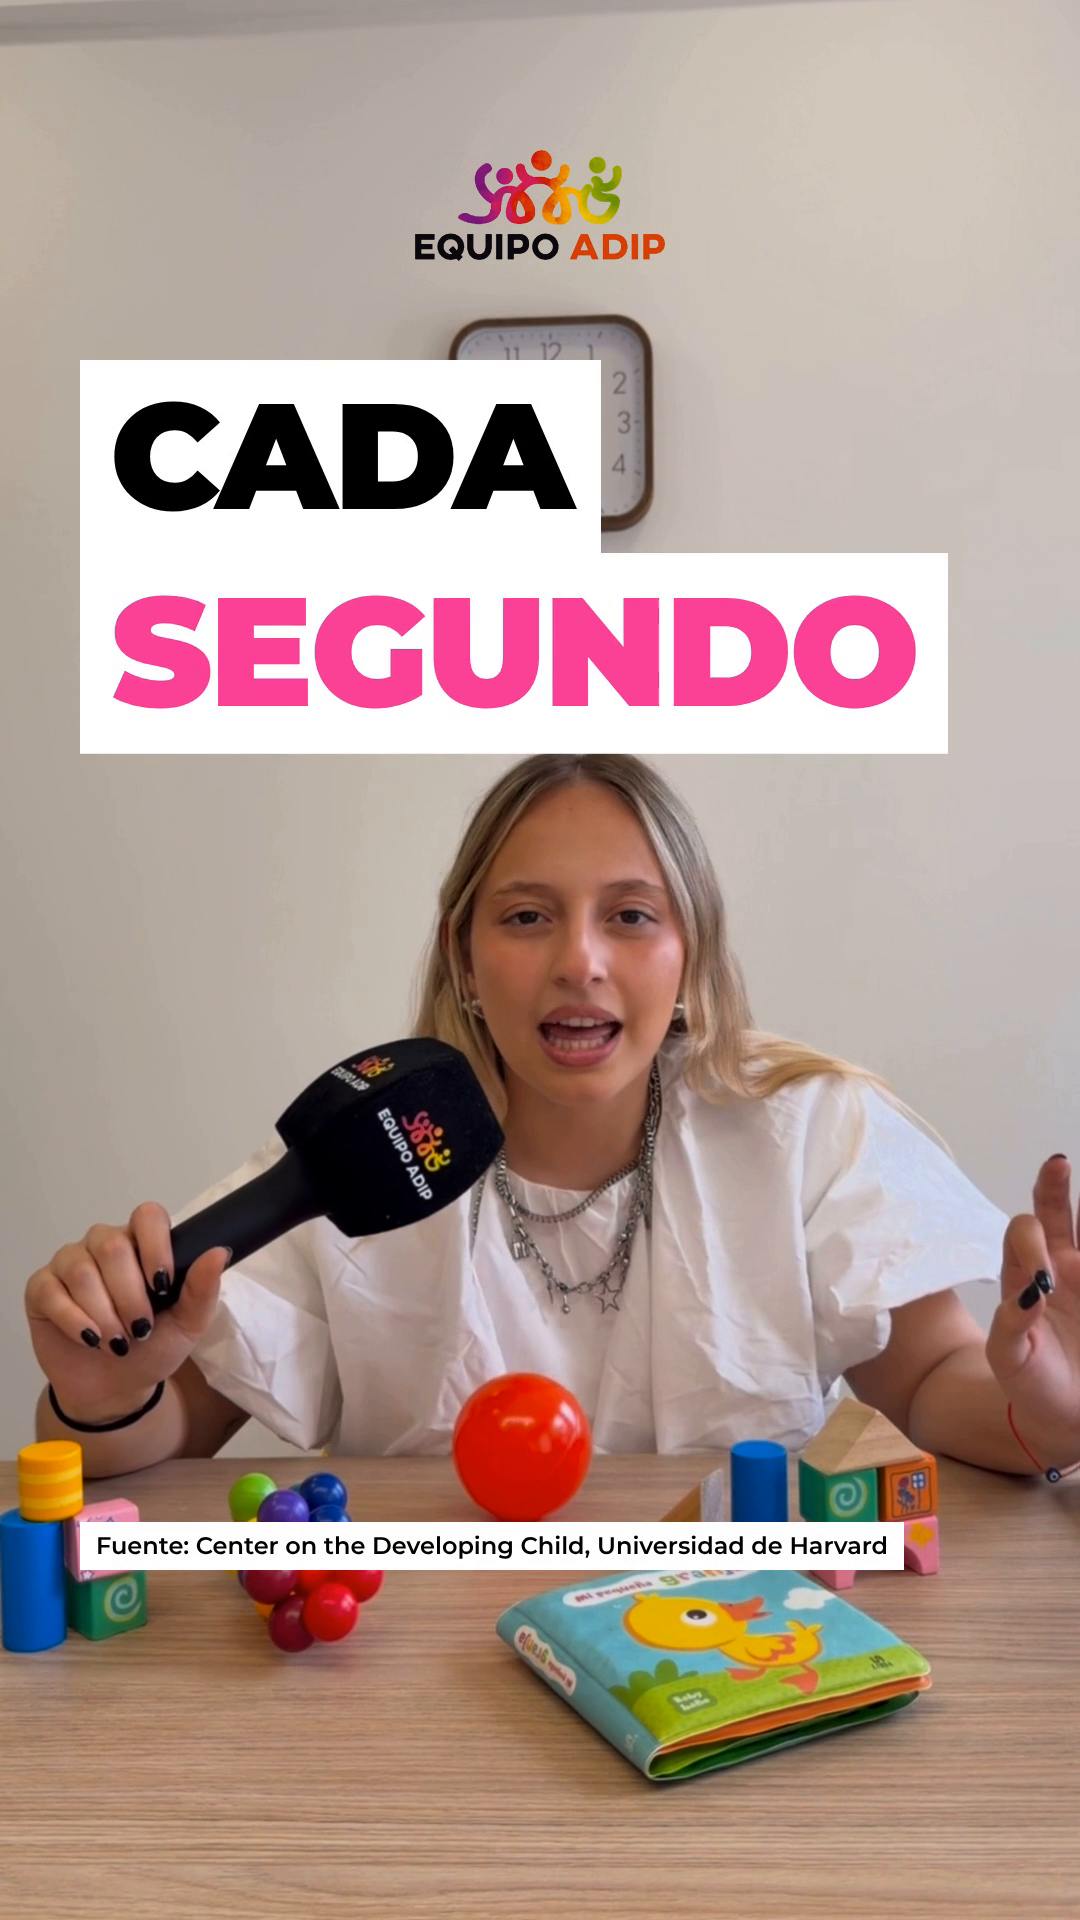
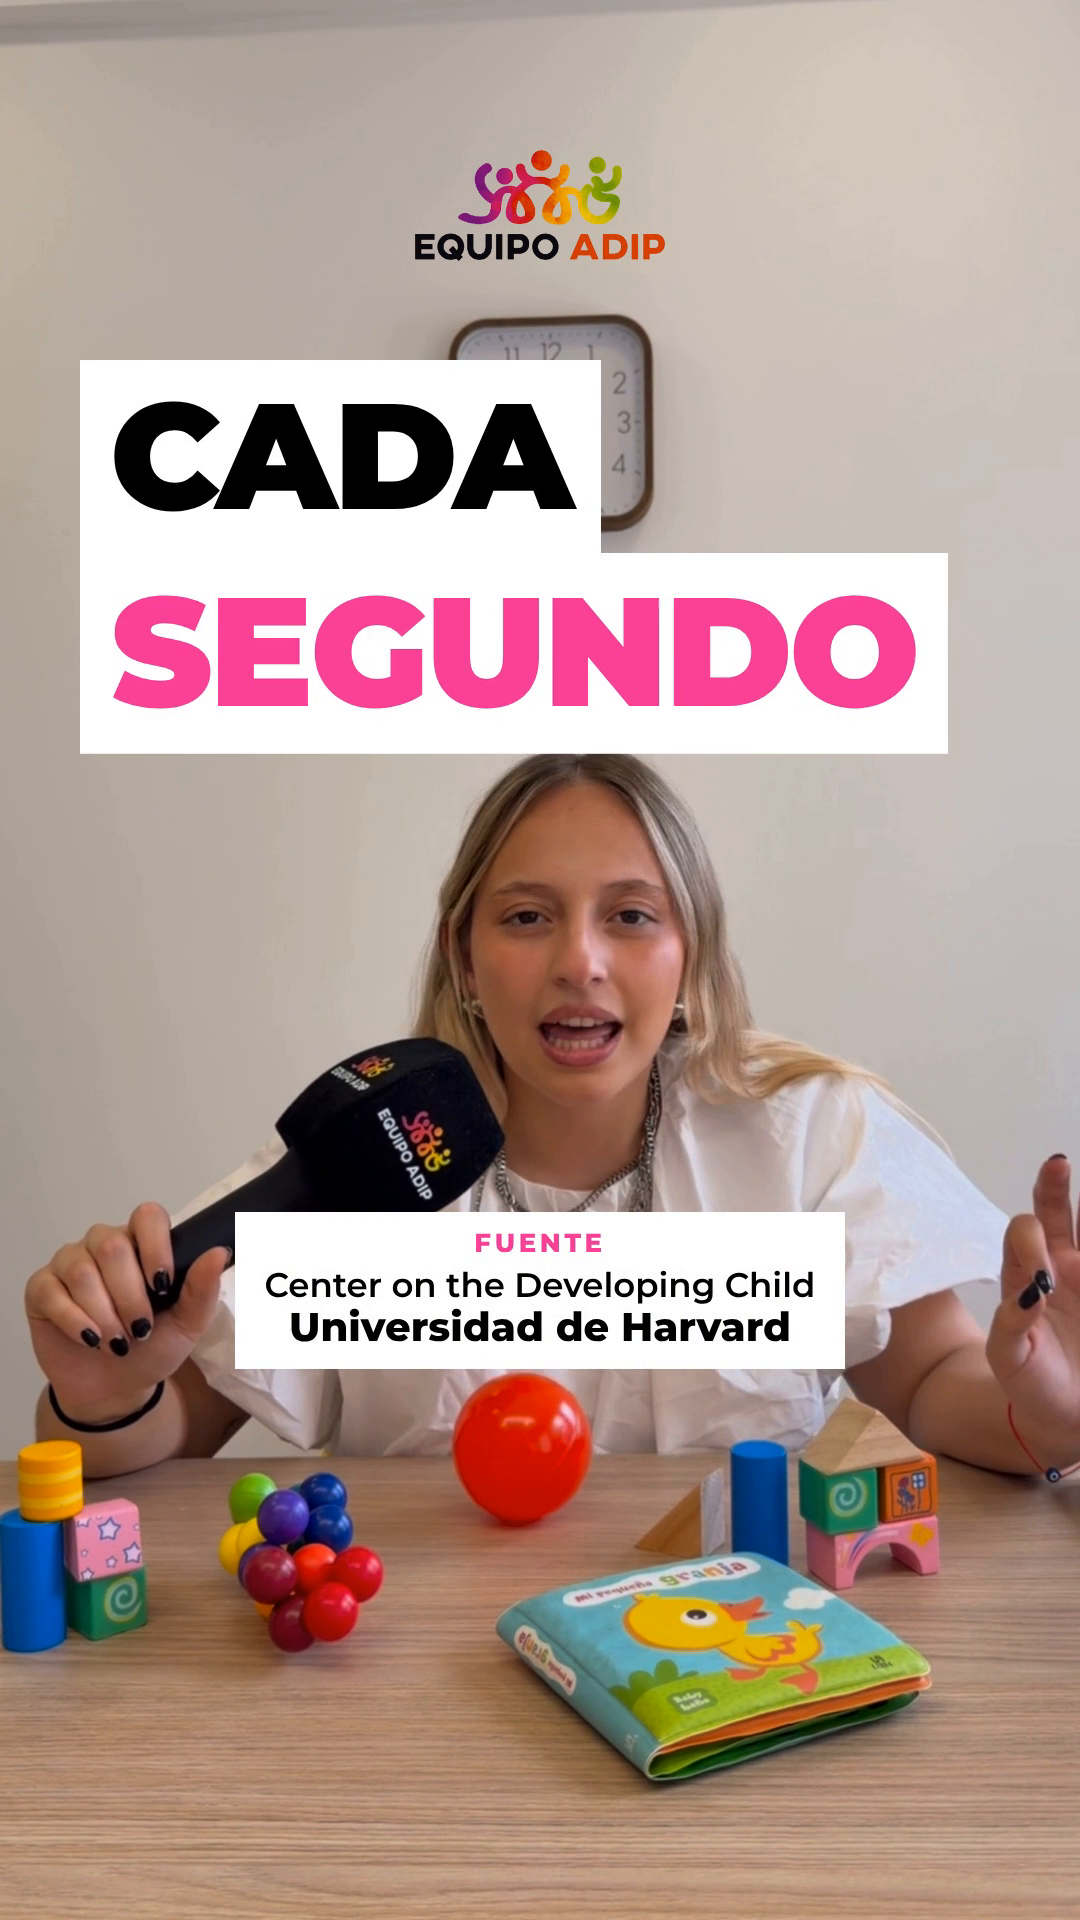
Reel Estimulación: crédito de la fuente más grande y visible
Claude-Session: https://claude.ai/code/session_01M2LxgeZBKNGVK1wpzDWiMF

Changed region(s): [[0.2139, 0.625, 0.7944, 0.7188], [0.0611, 0.7812, 0.8556, 0.8438]]

diff --git a/adip-reel/src/estim/Estim.tsx b/adip-reel/src/estim/Estim.tsx
@@ -273,8 +273,8 @@ const CounterPlate: React.FC<{t: number}> = ({t}) => {
 /** Block 2 · "cada segundo" + small source credit */
 const Second: React.FC<{t: number}> = ({t}) => {
   const show = t >= T_CADA - 0.03 && t < T_CADA_OUT;
-  const credit = t >= 6.12 && t < 9.25;
-  const ck = Math.min(prog(t, 6.12, 0.3, easeOut), 1 - prog(t, 9.0, 0.25, easeIn));
+  const credit = t >= 6.12 && t < 10.7;
+  const ck = Math.min(prog(t, 6.12, 0.15, easeOut), 1 - prog(t, 10.45, 0.25, easeIn));
   return (
     <>
       {show && (
@@ -290,8 +290,12 @@ const Second: React.FC<{t: number}> = ({t}) => {
         </div>
       )}
       {credit && (
-        <div style={{position: 'absolute', left: 80, top: 1522, background: P.white, color: P.ink, fontFamily: FONT, fontWeight: 600, fontSize: 24, lineHeight: 1, padding: '12px 16px', whiteSpace: 'nowrap', opacity: ck}}>
-          Fuente: Center on the Developing Child, Universidad de Harvard
+        <div style={{position: 'absolute', left: 0, width: 1080, top: 1212, textAlign: 'center'}}>
+          <div style={{display: 'inline-block', background: P.white, color: P.ink, fontFamily: FONT, padding: '18px 30px 20px', textAlign: 'center', opacity: ck, transform: `scale(${pop(t, 6.12, 0.32)})`, transformOrigin: '50% 100%'}}>
+            <div style={{fontWeight: 800, fontSize: 26, letterSpacing: '0.14em', lineHeight: 1, color: P.pink}}>FUENTE</div>
+            <div style={{fontWeight: 600, fontSize: 34, lineHeight: 1.15, marginTop: 10, whiteSpace: 'nowrap'}}>Center on the Developing Child</div>
+            <div style={{fontWeight: 800, fontSize: 40, lineHeight: 1.1, whiteSpace: 'nowrap'}}>Universidad de Harvard</div>
+          </div>
         </div>
       )}
     </>
